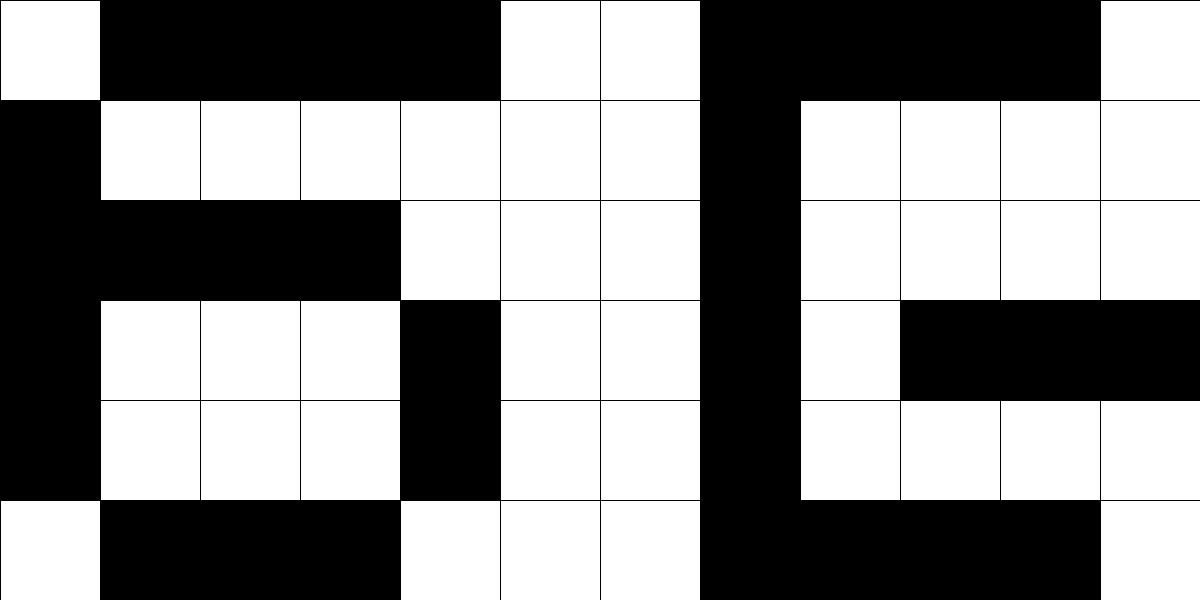
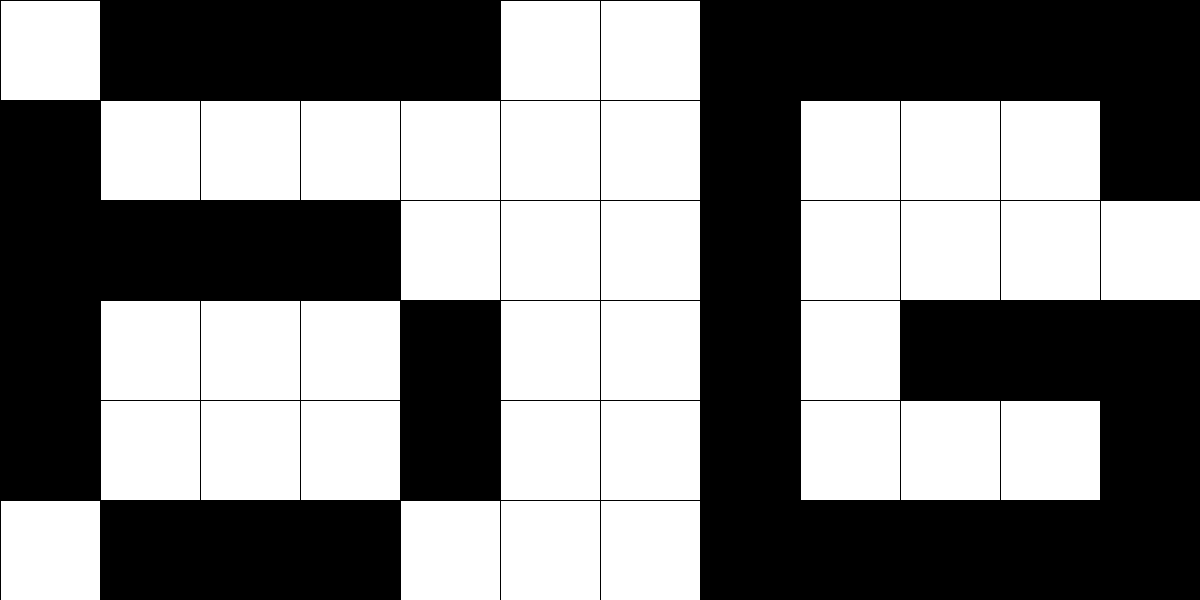
更改了训练函数，同时增加了仿逆训练，调整的神经元计算过程

Changed region(s): [[0.8942, 0.66, 1.0, 1.0], [0.8942, 0.0, 1.0, 0.36]]

diff --git a/NN/1/hebb.py b/NN/1/hebb.py
@@ -16,12 +16,22 @@ def training(inp,outp):
 		po = np.matrix(outp[i])
 		W += pi.T * po
 	return W
+
+# 开始训练，仿逆矩阵训练
+def trainings(inp,outp):
+	T = np.matrix(outp)
+	P = np.matrix(inp)
+	T = T.T
+	# P = P.T
+	Pp = np.linalg.inv(P * P.T) * P
+	W = T * Pp
+	return W
 # 开始测试，输入测试样例和权值矩阵,返回输出的矩阵并且转换为数组
 def start(pt,W):
 	pt = np.matrix(pt)
 	
-	n = pt * W
-
+	n = W * pt.T
+	
 	n =  n.getA1()
 	a = []
 	for i in n:

diff --git a/NN/1/hebbStart2.py b/NN/1/hebbStart2.py
@@ -32,7 +32,7 @@ TO = [
 
 if __name__ == '__main__':
 	
-	W = hebb.training(TI,TO)
+	W = hebb.trainings(TI,TO)
 	i = 0
 	for p in TI:
 		a = hebb.start(p,W)
